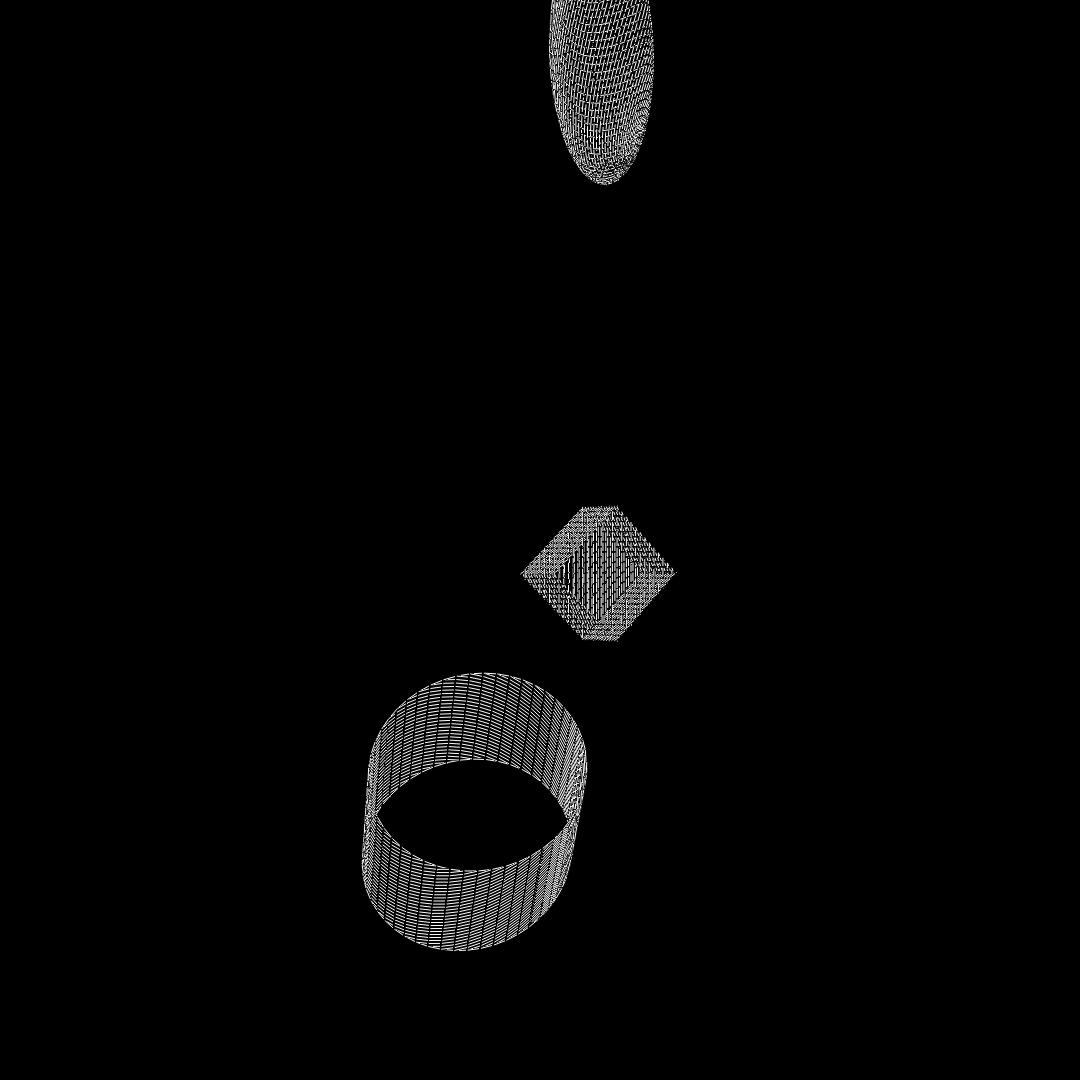
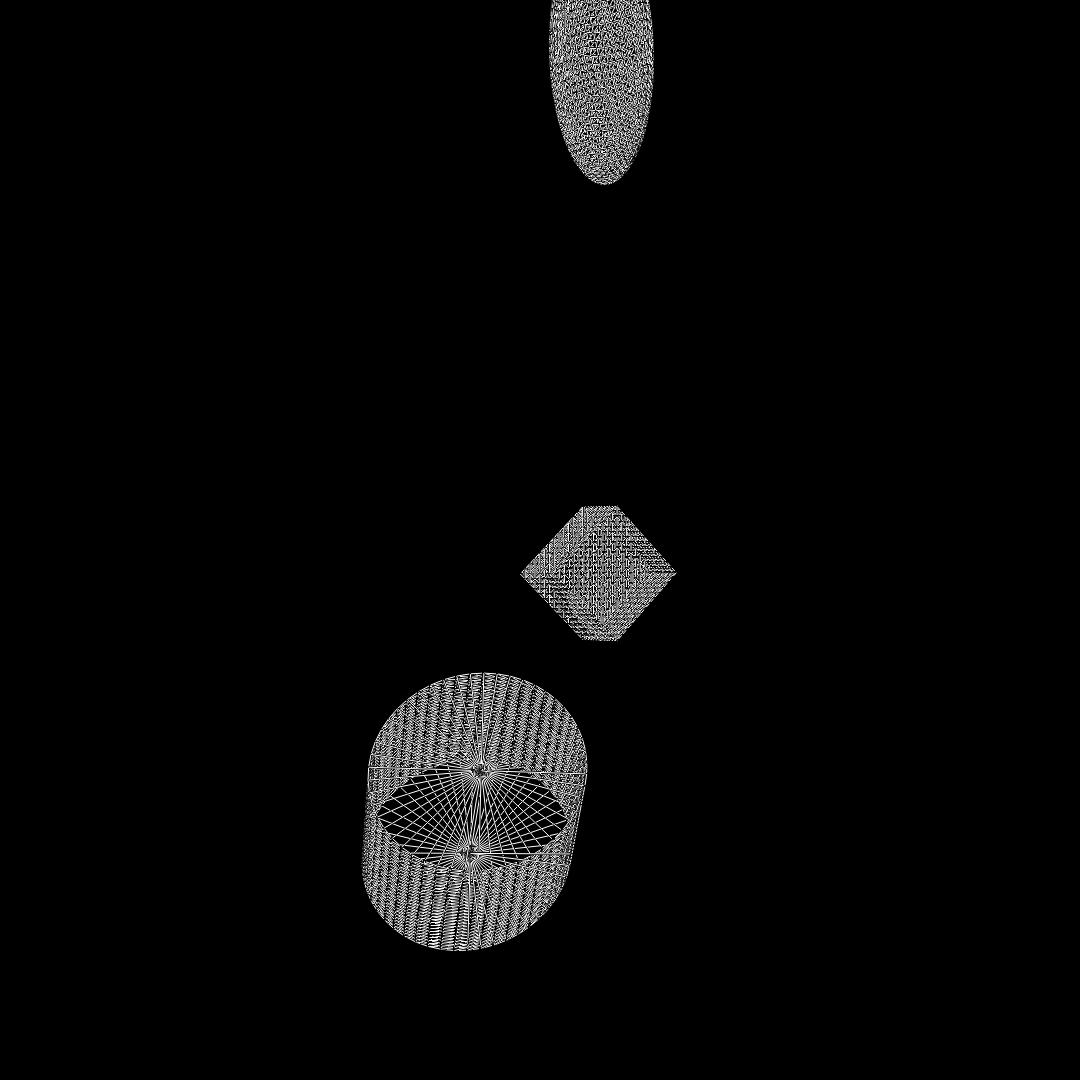
culling works!!!!

Changed region(s): [[0.3361, 0.6111, 0.55, 0.8861], [0.4889, 0.0, 0.6111, 0.1833], [0.4889, 0.4583, 0.6417, 0.6111]]

diff --git a/a3/Sphere.py b/a3/Sphere.py
@@ -75,8 +75,7 @@ class Sphere:
                         e_dict[ (coordinates, vertical) ] = True
                         mesh.edges.append( (coordinates, vertical) )
 
-                    natural = cross_product(vector_from_points(horizontal, vertical), vector_from_points(horizontal, coordinates))
-                    mesh.faces.append(Face(coordinates, vertical, diagonal, natural))
+                    mesh.faces.append(Face(coordinates, vertical, diagonal))
 
                 elif y_ver == 1.0: # one row below the top 
                     vertical = v_top
@@ -85,8 +84,7 @@ class Sphere:
                         e_dict[ (coordinates, vertical) ] = True
                         mesh.edges.append( (coordinates, vertical) )
 
-                    natural = cross_product(vector_from_points(diagonal, vertical), vector_from_points(diagonal, coordinates))
-                    mesh.faces.append(Face(coordinates, vertical, horizontal, natural))
+                    mesh.faces.append(Face(coordinates, vertical, horizontal))
 
 
                 elif y == 1.0: # top tip
@@ -122,9 +120,8 @@ class Sphere:
                         e_dict[ (coordinates, diagonal) ] = True
                         mesh.edges.append( (coordinates, diagonal) )
 
-                    natural = cross_product(vector_from_points(horizontal, coordinates), vector_from_points(horizontal, diagonal))
-                    mesh.faces.append(Face(coordinates, vertical, diagonal, natural))
-                    mesh.faces.append(Face(coordinates, horizontal, diagonal, natural))
+                    mesh.faces.append(Face(coordinates, vertical, diagonal))
+                    mesh.faces.append(Face(diagonal, horizontal, coordinates))
 
         return mesh
 

diff --git a/a3/main.py b/a3/main.py
@@ -61,7 +61,7 @@ def main():
     camera.build_camera(0.0, 0.0, 10)
     camera.build_view_volume(3.0, 25.0, 2.0)
     camera.scene.add_mesh(basicAssCube, (0.0, 0.0, 0.0))
-    camera.render_scene(900, "renders/cube")
+    #camera.render_scene(900, "renders/cube")
 
     basicAssCylndr = cylinderFactory.build_polygon_mesh()
     basicAssCylndr.add_transformation(TransformationFactory.y_rotation(30))
@@ -72,18 +72,18 @@ def main():
     camera.build_camera(0.0, 0.0, 10)
     camera.build_view_volume(3.0, 25.0, 2.0)
     camera.scene.add_mesh(basicAssCylndr, (0.0, 0.0, 0.0))
-    camera.render_scene(900, "renders/cylinder")
+    #camera.render_scene(900, "renders/cylinder")
 
-    # basicAssSphere = sphereFactory.build_polygon_mesh()
-    # basicAssSphere.add_transformation(TransformationFactory.y_rotation(30))
-    # basicAssSphere.add_transformation(TransformationFactory.x_rotation(30))
-    # basicAssSphere.add_transformation(TransformationFactory.z_rotation(30))
+    basicAssSphere = sphereFactory.build_polygon_mesh()
+    basicAssSphere.add_transformation(TransformationFactory.y_rotation(30))
+    basicAssSphere.add_transformation(TransformationFactory.x_rotation(30))
+    basicAssSphere.add_transformation(TransformationFactory.z_rotation(30))
 
-    # camera.scene.reset()
-    # camera.build_camera(0.0, 0.0, 10)
-    # camera.build_view_volume(3.0, 25.0, 2.0)
-    # camera.scene.add_mesh(basicAssSphere, (0.0, 0.0, 0.0))
-    # camera.render_scene(900, "renders/sphere")
+    camera.scene.reset()
+    camera.build_camera(10.0,0.0, 10.0)
+    camera.build_view_volume(3.0, 25.0, 2.0)
+    camera.scene.add_mesh(basicAssSphere, (0.0, 0.0, 0.0))
+    camera.render_scene(900, "renders/sphere")
 
 
 

diff --git a/a3/Cylinder.py b/a3/Cylinder.py
@@ -63,7 +63,7 @@ class Cylinder:
                         mesh.vertices.append(v_top)
 
                     # add face
-                    mesh.faces.append(Face(coordinates, v_top, horizontal))
+                    mesh.faces.append(Face(v_top, horizontal, coordinates))
 
                 # if bottom
                 if y == -1.0 and e_dict.get( (coordinates, v_bottom) ) == None:
@@ -79,7 +79,7 @@ class Cylinder:
                         mesh.vertices.append(v_bottom)
                     
                     # add face
-                    mesh.faces.append(Face(coordinates, v_bottom, horizontal))
+                    mesh.faces.append(Face(v_bottom, coordinates, horizontal))
 
                 # horizontal
                 if e_dict.get( (coordinates, horizontal) ) == None:

diff --git a/a3/ViewSystem.py b/a3/ViewSystem.py
@@ -60,8 +60,8 @@ class ViewSystem:
         magnitude = sqrt(v_CO[0]*v_CO[0] + v_CO[1]*v_CO[1] + v_CO[2]*v_CO[2]) # get the magnitude / norm
         # build unit vectors for new basis
         self.uv_N = (v_CO[0] / magnitude, v_CO[1] / magnitude, v_CO[2] / magnitude) # unit vector N
-        self.uv_V = cross_product( self.uv_N, (0,0,1) ) # unit vector V
-        self.uv_U = cross_product( self.uv_N, self.uv_V )    # unit vector U
+        self.uv_V = cross_product( self.uv_N, (0.0, 0.0, 1.0) ) # unit vector V
+        self.uv_U = cross_product(self.uv_N, self.uv_V )    # unit vector U
 
         self.to_view_space = TransformationFactory.basis_change(self.uv_U, self.uv_V, self.uv_N, self.camera_pos) 
         print("world_to_camera:")

diff --git a/a3/Face.py b/a3/Face.py
@@ -24,10 +24,6 @@ class Face:
     def should_cull(self):        
         cp = mathUtil.vector_from_points(self.v1, (0,0,0))
         result = mathUtil.dot_product(cp, self.nN)
-
-        print("cp = {}".format(self.v1))
-        print("nN = {}".format(self.nN))
-        print("cp . Nn = {}".format(result))
         return result >= 0
 
     def generate_normal(self):
